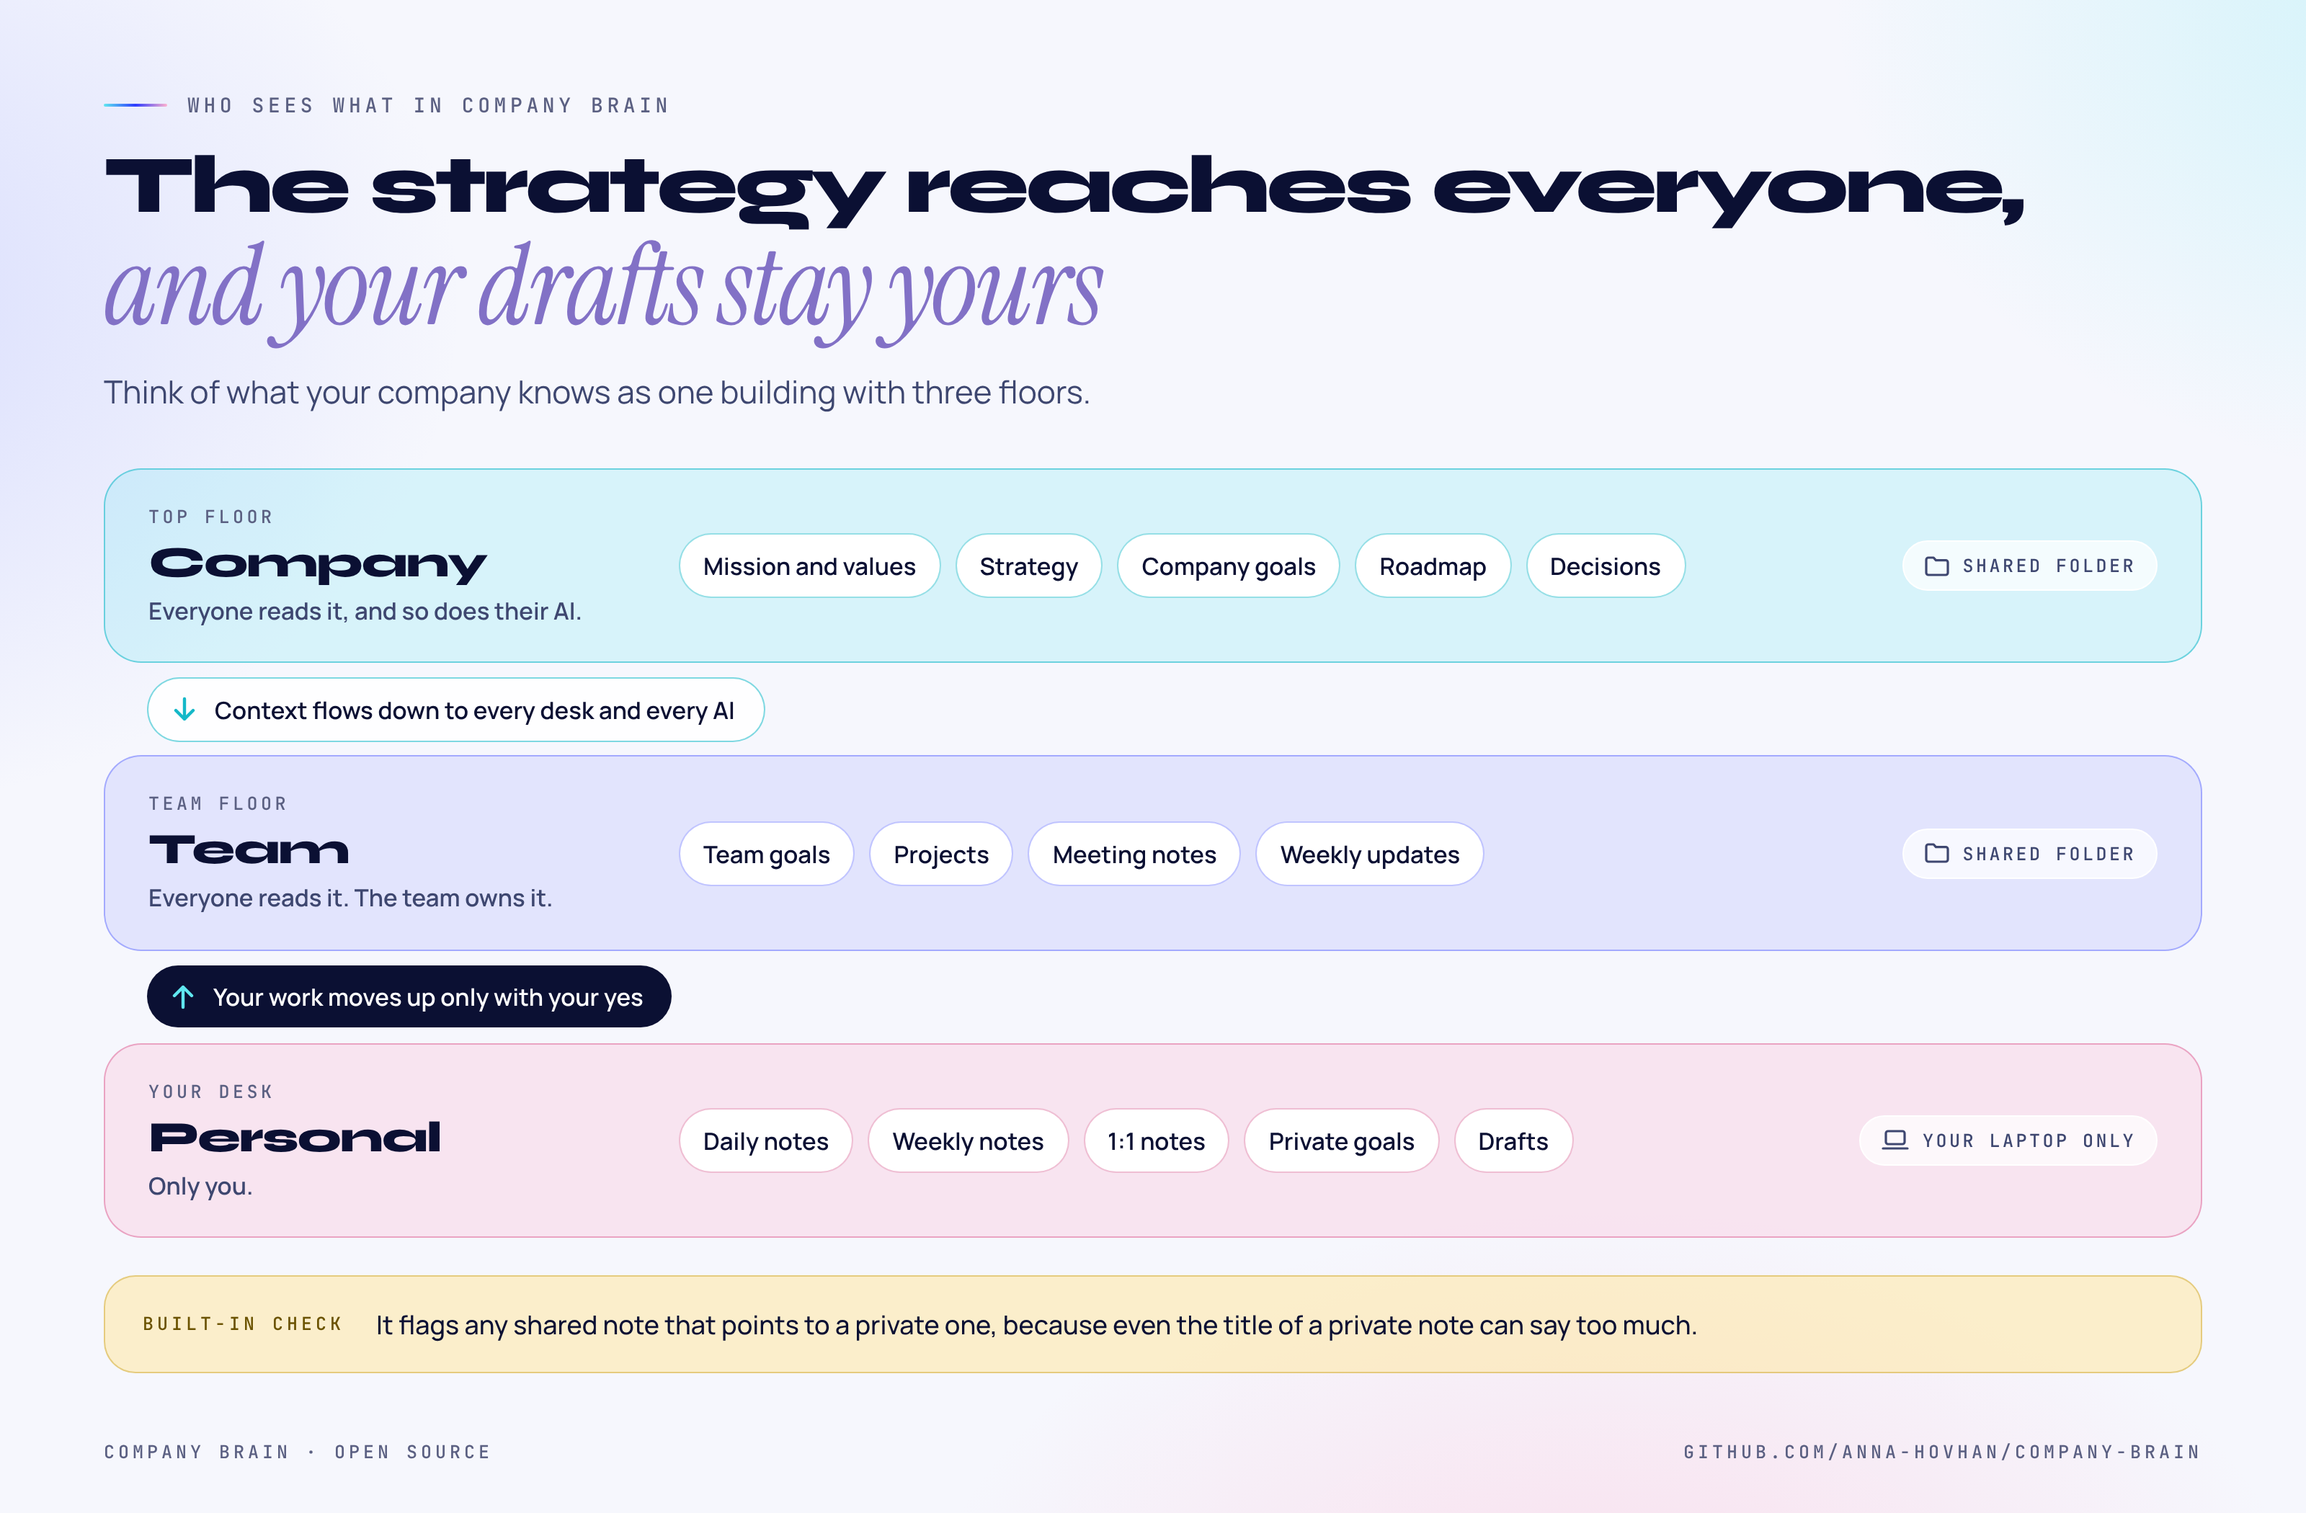
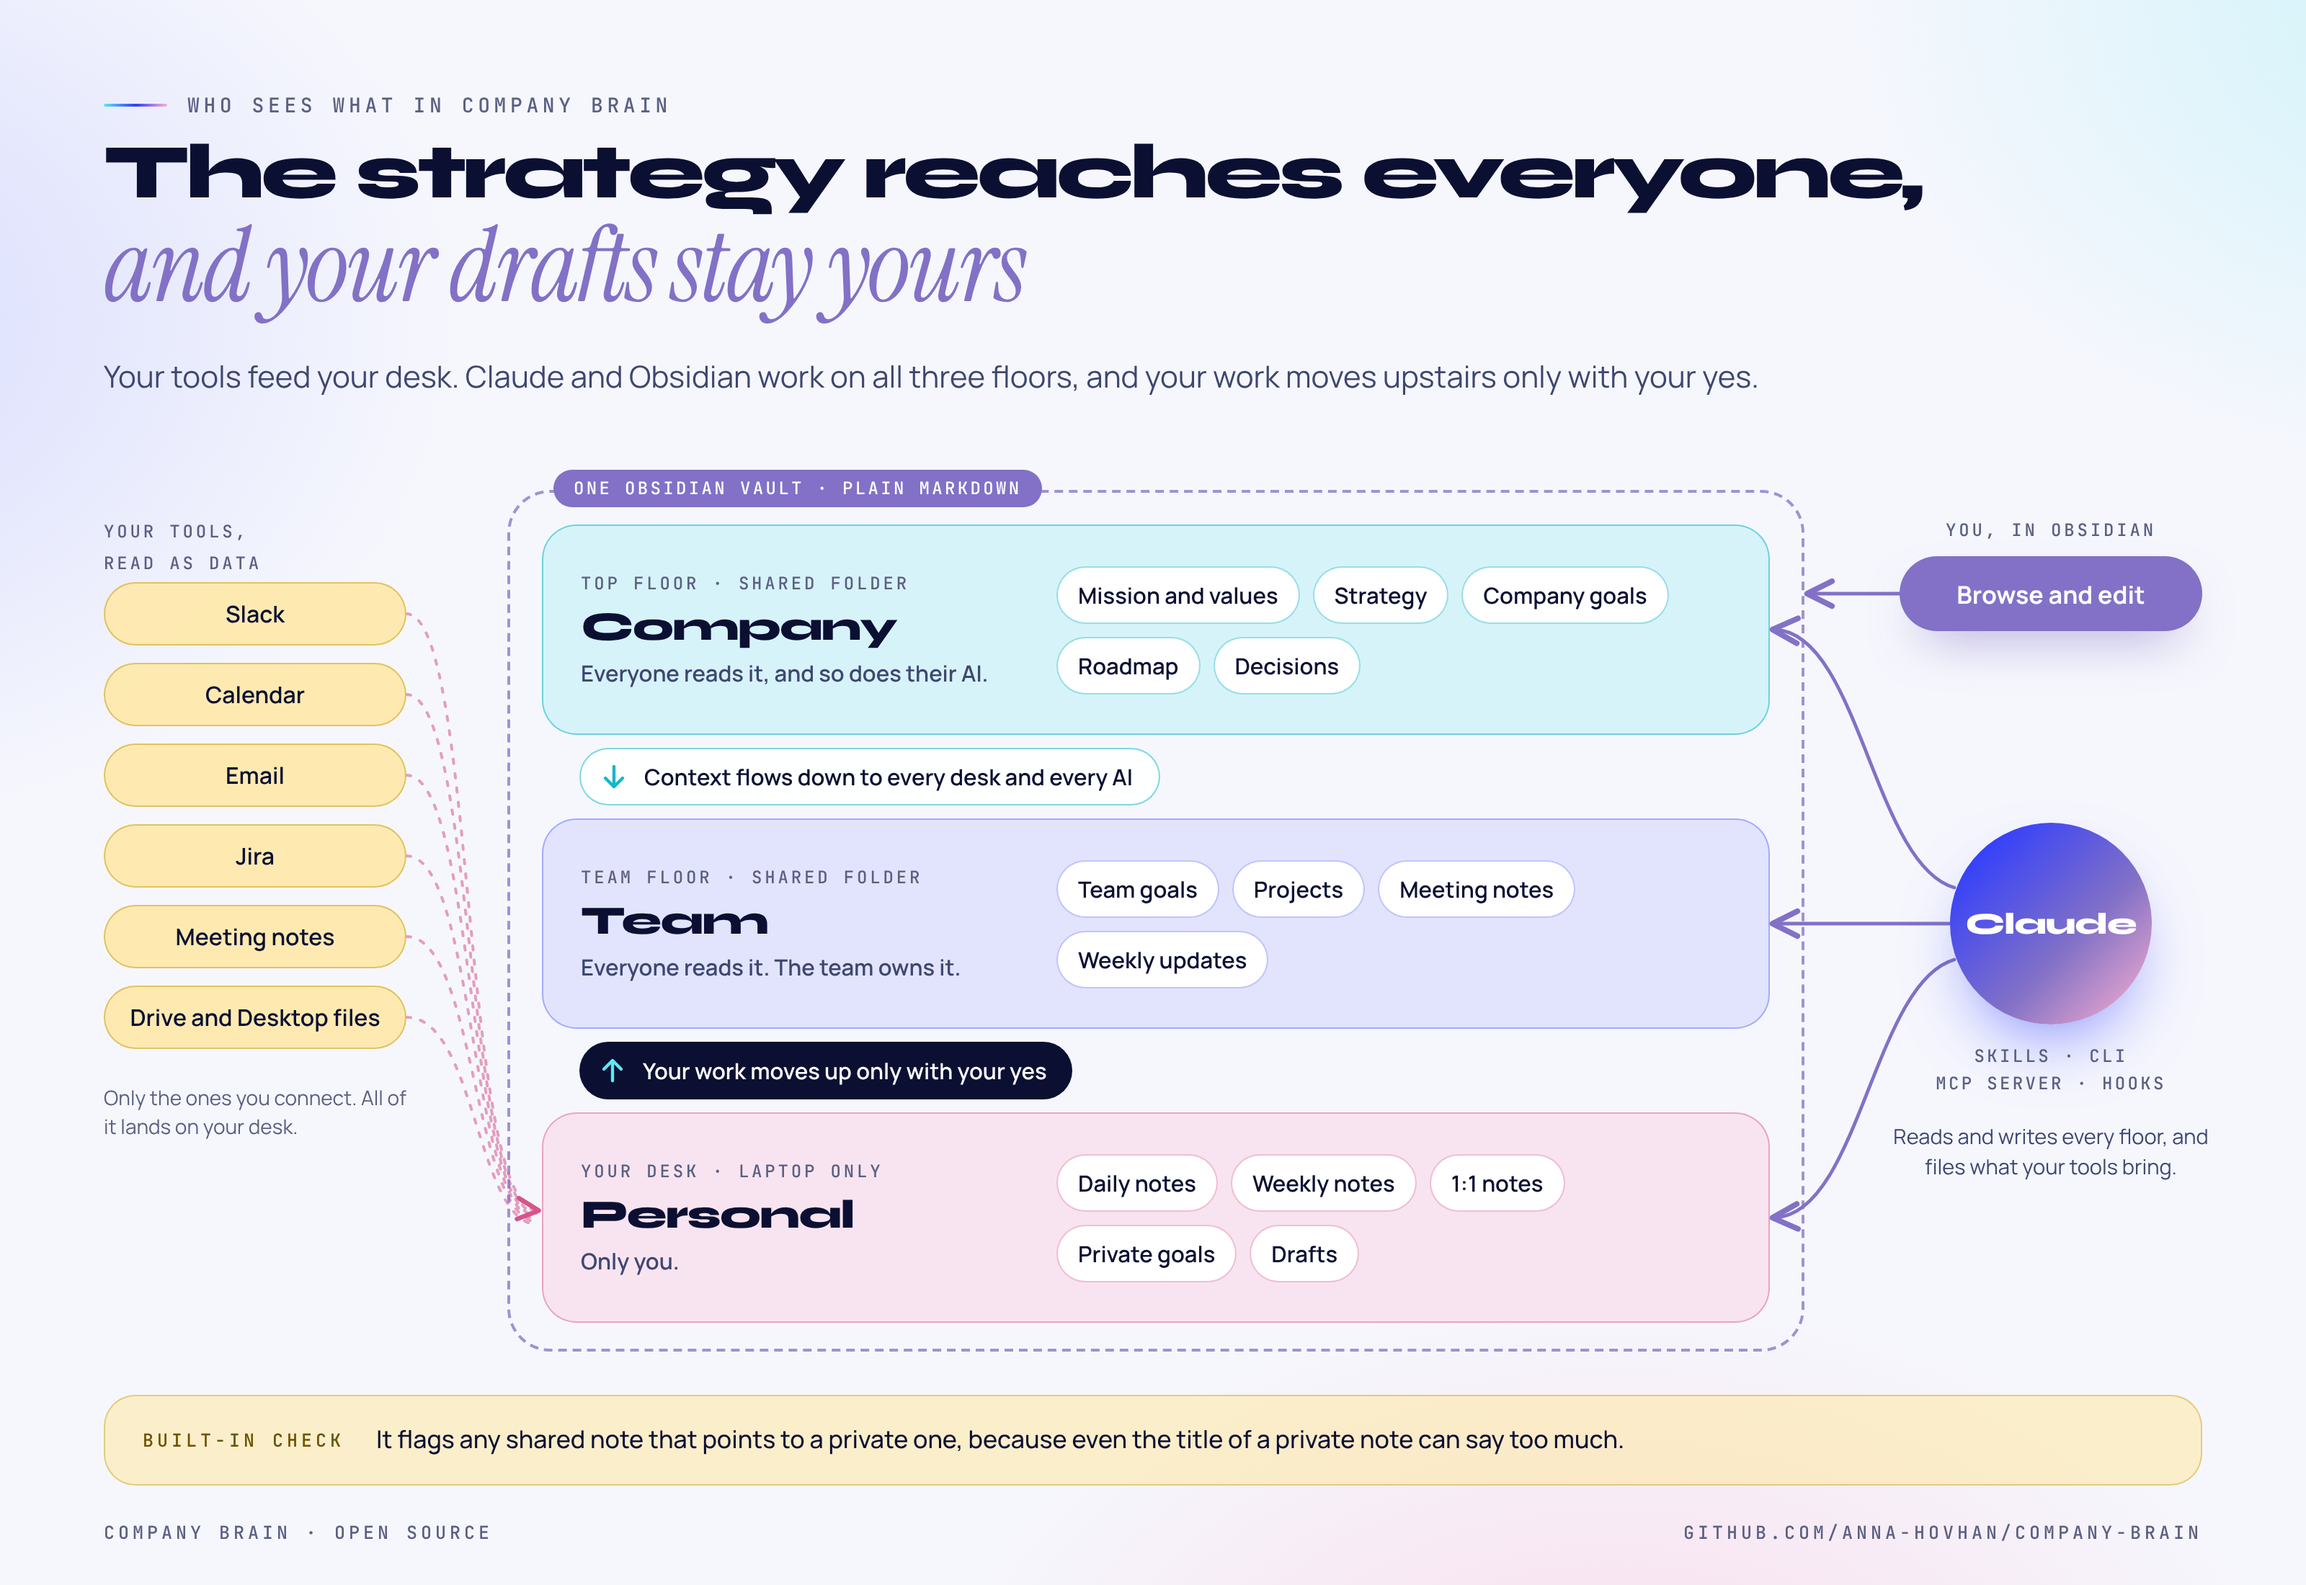
Show inputs, Obsidian and Claude in the README overview image
The three floors image now has your tools feeding your desk on the
left and Obsidian and Claude on the right, as the earlier overview
did, without its outdated git and skill-count claims. Alt text updated.

Claude-Session: https://claude.ai/code/session_01MomxP9W6KhHwKaZavrdhrF

diff --git a/README.md b/README.md
@@ -4,7 +4,7 @@ An AI operating system for a company that lives in one folder. You browse and ed
 
 It's built on [obsidian-second-brain](https://github.com/eugeniughelbur/obsidian-second-brain), a single-person AI second brain, and extends it for multiplayer use. It also adds strategy and product frameworks: Value Proposition Canvas, Opportunity Solution Tree, Effort-Impact Matrix with RICE, OKRs, Strategy Kernel, Playing to Win, Business Model Canvas and Now-Next-Later roadmaps.
 
-<img src="System/company-brain-overview.png" alt="Who sees what in Company Brain. Three floors of one building: the company floor (mission and values, strategy, company goals, roadmap, decisions) and the team floor (team goals, projects, meeting notes, weekly updates) sit in a shared folder that everyone reads, and so does their AI. Your desk (daily, weekly and 1:1 notes, private goals, drafts) stays on your laptop, and your work moves up only with your yes. A built-in check flags any shared note that points to a private one." width="100%">
+<img src="System/company-brain-overview.png" alt="Who sees what in Company Brain. One Obsidian vault of plain markdown holds three floors: the company floor (mission and values, strategy, company goals, roadmap, decisions) and the team floor (team goals, projects, meeting notes, weekly updates) live in a shared folder that everyone reads, and so does their AI; your desk (daily, weekly and 1:1 notes, private goals, drafts) stays on your laptop, and your work moves up only with your yes. On the left, your tools (Slack, calendar, email, Jira, meeting notes, Drive and Desktop files) are read as data and land on your desk. On the right, you browse and edit in Obsidian, and Claude, with its skills, CLI, MCP server and hooks, reads and writes every floor. A built-in check flags any shared note that points to a private one." width="100%">
 
 > **Open this folder as an Obsidian vault.** It is plain markdown: wikilinks, graph view, Dataview hubs and kanban boards work out of the box. See Quick start.
 
